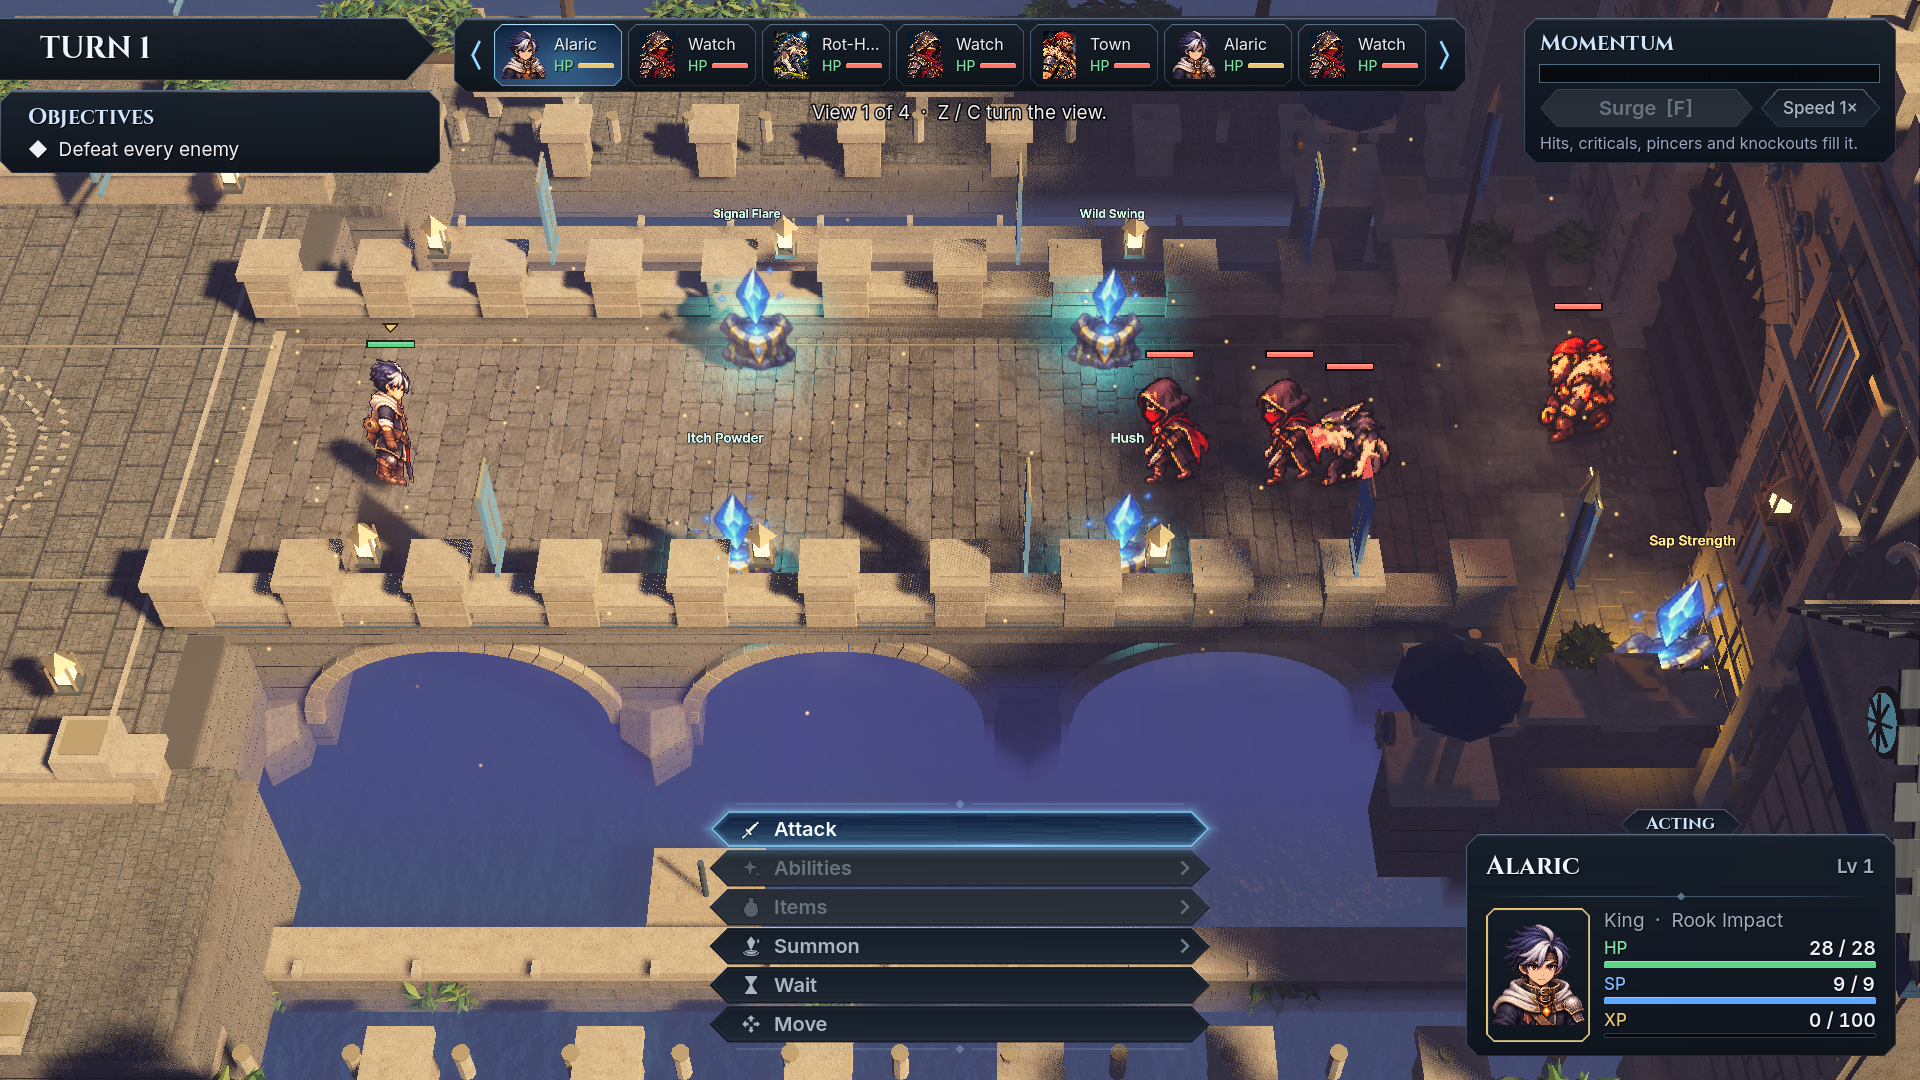
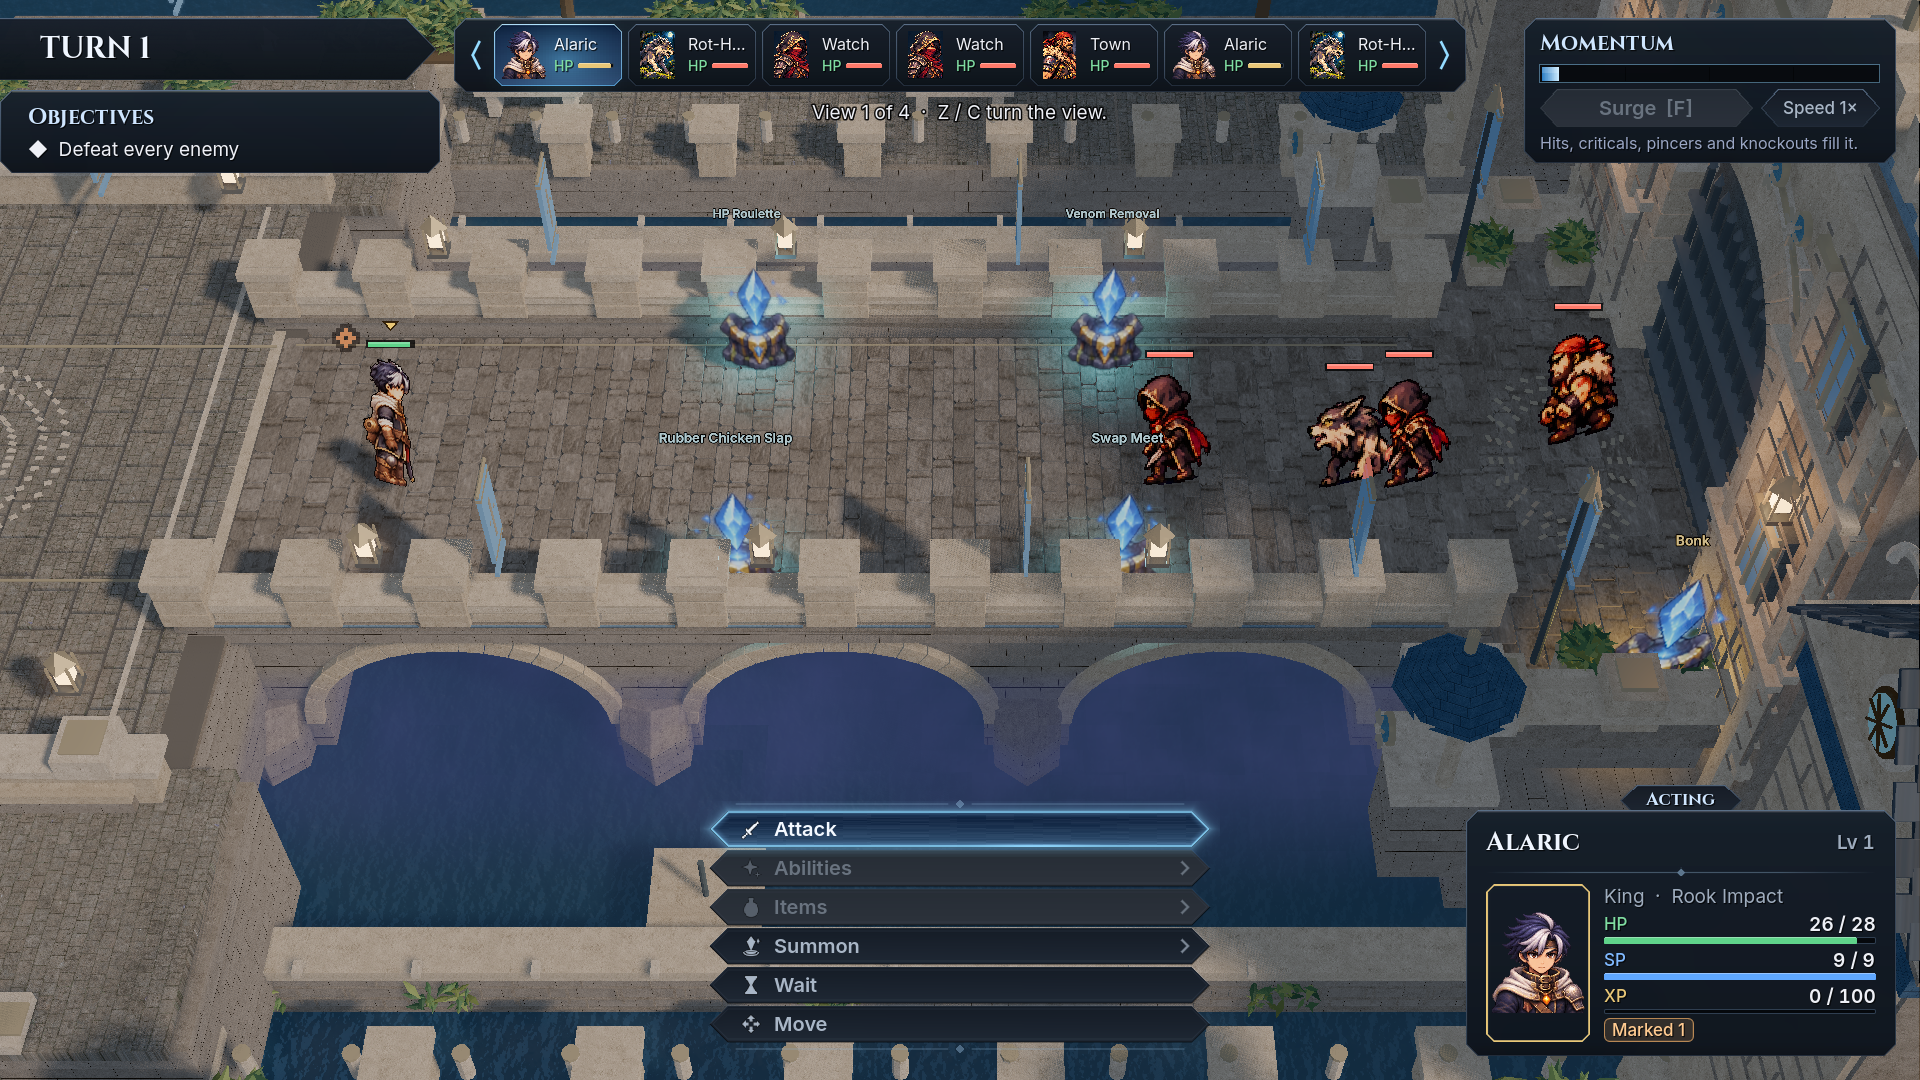
Sacred Canal Bridge: pre-lit, no board grade, haze or fill lights
The owner's map comes lit: "prelit": true makes Board3D use the owner's own environment (godot/check.gd: sky, ambient, AgX, SSAO, glow, sun colour, gate lanterns) instead of its grade, fog, volumetric haze, dust, mist and fill lights. New preview shots.

diff --git a/godot/HANDOFF.md b/godot/HANDOFF.md
@@ -400,7 +400,7 @@ Sixteen expression portraits each, cut from the owner's 4x4 sheets by `tools/art
 ## Sacred Canal Bridge (Proving Grounds 6, Nov 2026, Claude)
 The owner's `Sacred_Canal_Structural_Final.zip` (GLB + navigation JSON + canal shader) as `pg_6`. Read `godot/README.md` ("Sacred Canal Bridge"). The owner asked for the GLB as the visual mesh, the navigation JSON as the grid (6x20 bridge, wider 10x4 landing, all 160 cells), the existing camera, and `godot/check.gd`'s way of applying the canal shader.
 - **Done and checked headless (Godot 4.7.2):** `sacred_canal_battle_check` 30 checks pass (160 cells equal the owner's JSON, no extra cell, every cell's height within 0.1 of the GLB deck, picking in four views, visibility, a walk, the enemy AI); `spacing_check` includes pg_6 at levels 1 and 5.
-- **Checked on a real display (the owner's PC, RTX 5070 Ti, 1920x1080), by `tests/sacred_canal_shot`:** unselected shots show no grid in any of the four views, selected shots show the overlay on the deck cells, units stand on the deck, about 2.8 ms a frame. Shots: `art_src/environment/sacred_canal/hollowmark_*_view1.png`.
-- **Decisions Claude made (the owner can change them):** the map is `pg_6` (pg_5 is the shelved Emberwell); long axis on y, left to right; enemies on the gate landing, Alaric at the bridge's far end; `grade` golden; a gate-side mesh set hidden in View 4 (see README).
-- **Open:** (1) the five landing-corner cells with props on them (planters and piers; README); (2) the owner has not said whether this is Proving Grounds only or also a story battle, and whether Alaric should start where it is; (3) the water reads darker and more violet in battle than in the owner's standalone render (the board's own lighting and haze; not tuned); (4) the 70 MB GLB adds about 500 MB of textures in video memory (fine on the test GPU, unmeasured on a weaker one); (5) invisible-grid acceptance 5 (visual honesty) beyond the five props, 6 beyond the screenshots and the ray check, and the licence manifest re-verification are NOT DONE; (6) Last Benediction's objective (5,8) and the story tutorial hint wording from earlier hand-offs are untouched.
+- **Checked on a real display (the owner's PC, RTX 5070 Ti, 1920x1080), by `tests/sacred_canal_shot`:** unselected shots show no grid in any of the four views, selected shots show the overlay on the deck cells, units stand on the deck, about 2.8 ms a frame. Shots: `art_src/environment/sacred_canal/hollowmark_*.png`.
+- **Decisions Claude made (the owner can change them):** the map is `pg_6` (pg_5 is the shelved Emberwell); long axis on y, left to right; enemies on the gate landing, Alaric at the bridge's far end; `"prelit": true` (the owner's own lighting, nothing of the board's grade, fog or haze); a gate-side mesh set hidden in View 4 (see README).
+- **Open:** (1) the five landing-corner cells with props on them (planters and piers; README); (2) the owner has not said whether this is Proving Grounds only or also a story battle, and whether Alaric should start where it is; (3) the board no longer lights this map (owner, Nov 2026: "the maps come pre lit"): `"prelit": true` -> `Board3D._apply_prelit` uses the sun colour, ambient, AgX, SSAO, glow and sky from the owner's `godot/check.gd` and its two gate lanterns, with the board's sun direction; the standalone render's exact sun angle was not copied; (4) the 70 MB GLB adds about 500 MB of textures in video memory (fine on the test GPU, unmeasured on a weaker one); (5) invisible-grid acceptance 5 (visual honesty) beyond the five props, 6 beyond the screenshots and the ray check, and the licence manifest re-verification are NOT DONE; (6) Last Benediction's objective (5,8) and the story tutorial hint wording from earlier hand-offs are untouched.
 - **Not tested:** a weaker GPU, the Compatibility renderer, the Medium and Low quality settings on this map, a full played battle to the end, any suite not run: run were spacing, skirmish, world, stage, map_features, quality, camera_turn, board, base, last_benediction (both) and sacred_canal_battle (all pass headless); the rest of the full list in CLAUDE.md were not run.

diff --git a/godot/README.md b/godot/README.md
@@ -452,3 +452,4 @@ The owner's processional stone bridge over a canal (`Sacred_Canal_Structural_Fin
 - **Checks:** `tests/sacred_canal_battle_check.tscn` (headless, the real `battle.tscn`: the grid against the owner's JSON, every cell's height against the GLB surface by ray, picking of every cell in all four views, unit visibility by ray in all four views, a walk, the enemy AI), `tests/spacing_check` (levels 1 and 5), `tests/sacred_canal_shot.tscn` (a real window: shots in four views selected and unselected, frame time and draw calls; `-- out=<folder>`).
 - **Known art-versus-grid conflict (the owner's call):** five walkable landing cells have scenery standing on them: a planter with hedges on (0, 21) and (9, 21), stone piers on (0, 23), (8, 23) and (9, 23). The grid keeps all 160 cells as asked; the test pins the five. Fix in Blender (move the props) or block the cells (`!`).
 - **Measured on the owner's PC (RTX 5070 Ti, Forward+, 1920x1080, vsync off):** about 2.8 ms a frame (350 fps), 420 to 1060 draw calls, 0.6 to 4.8 M triangles in the frame (the larger numbers include the shadow passes), 650 MB video memory of which about 500 MB is textures; the battle scene builds in about 2.5 s with the GLB. Not measured on a weaker GPU.
+- **Pre-lit (owner, Nov 2026: "the maps come pre lit so you shouldn't be changing anything"):** the map has `"prelit": true`, so `Board3D._apply_prelit` removes the board's own fill lights, grade, fog, volumetric haze, dust and mist and uses the owner's `godot/check.gd` environment (sky colours, ambient `bacbea` 0.62, AgX, SSAO 0.7 / 1.35, glow 0.18, SSR, sun `ffe8d4` 1.12) plus its two gate lanterns. The sun keeps the board's direction (shadows fall the way they do on every map). Any future map that arrives lit can set the same flag.
